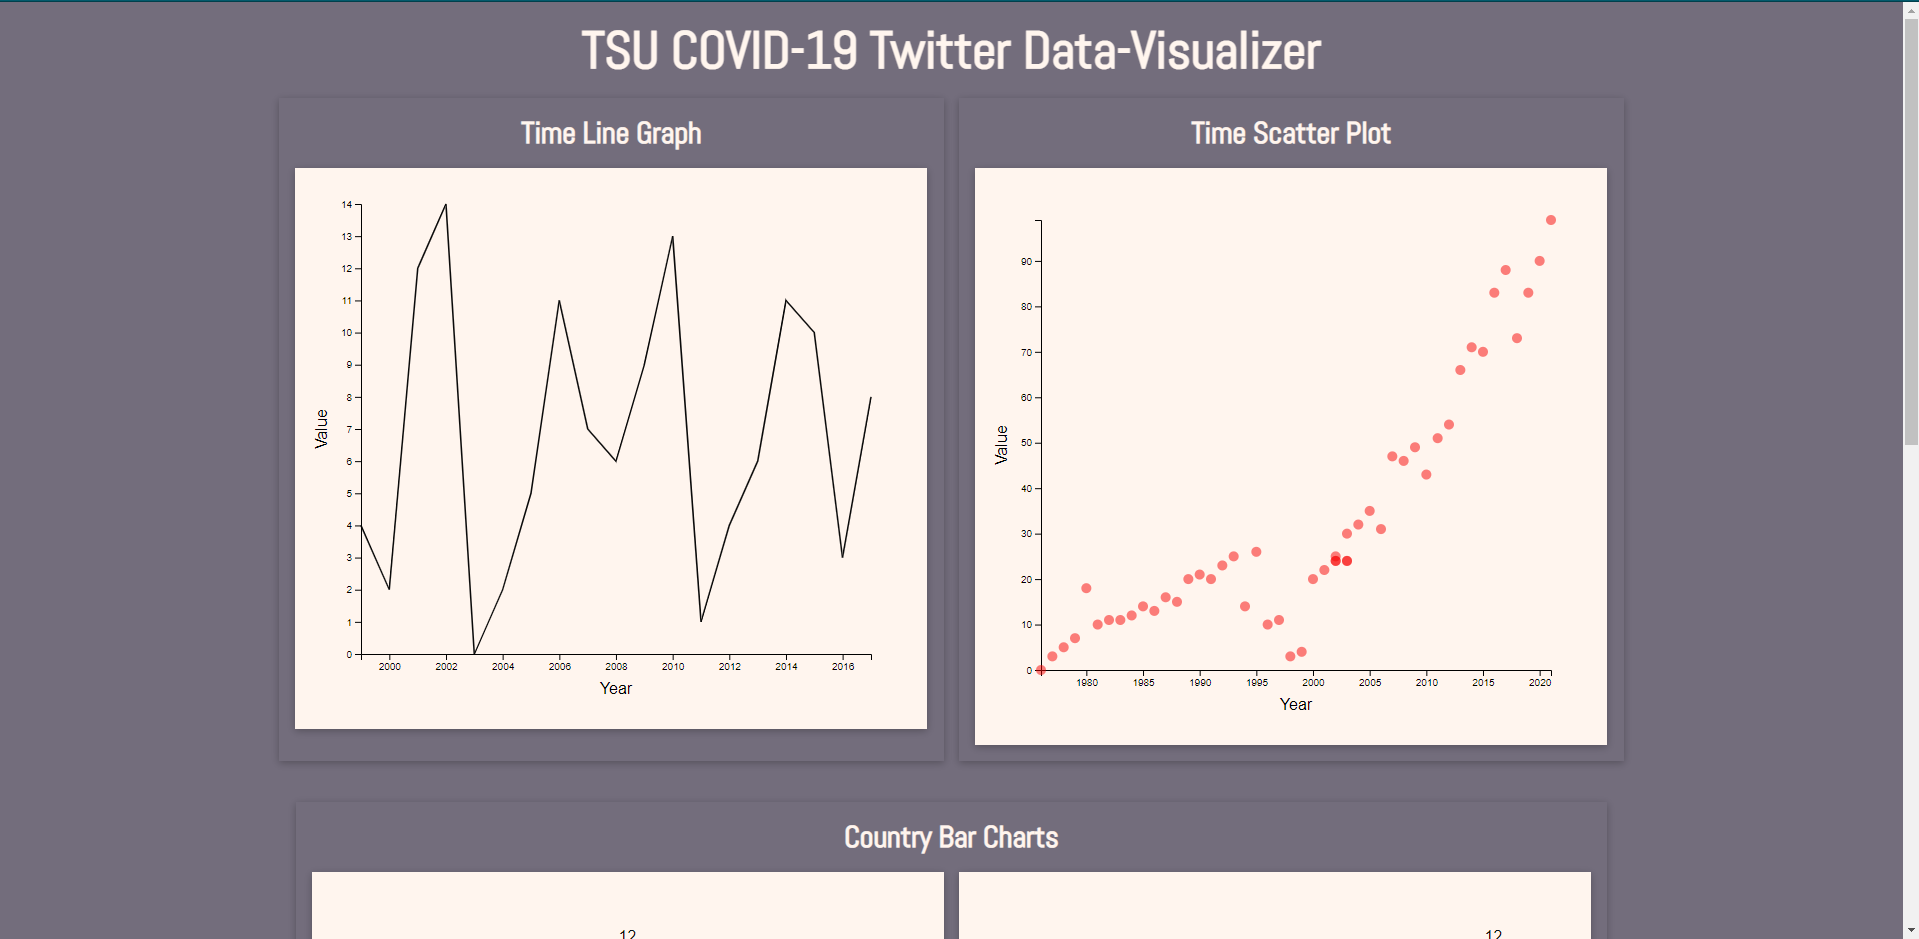
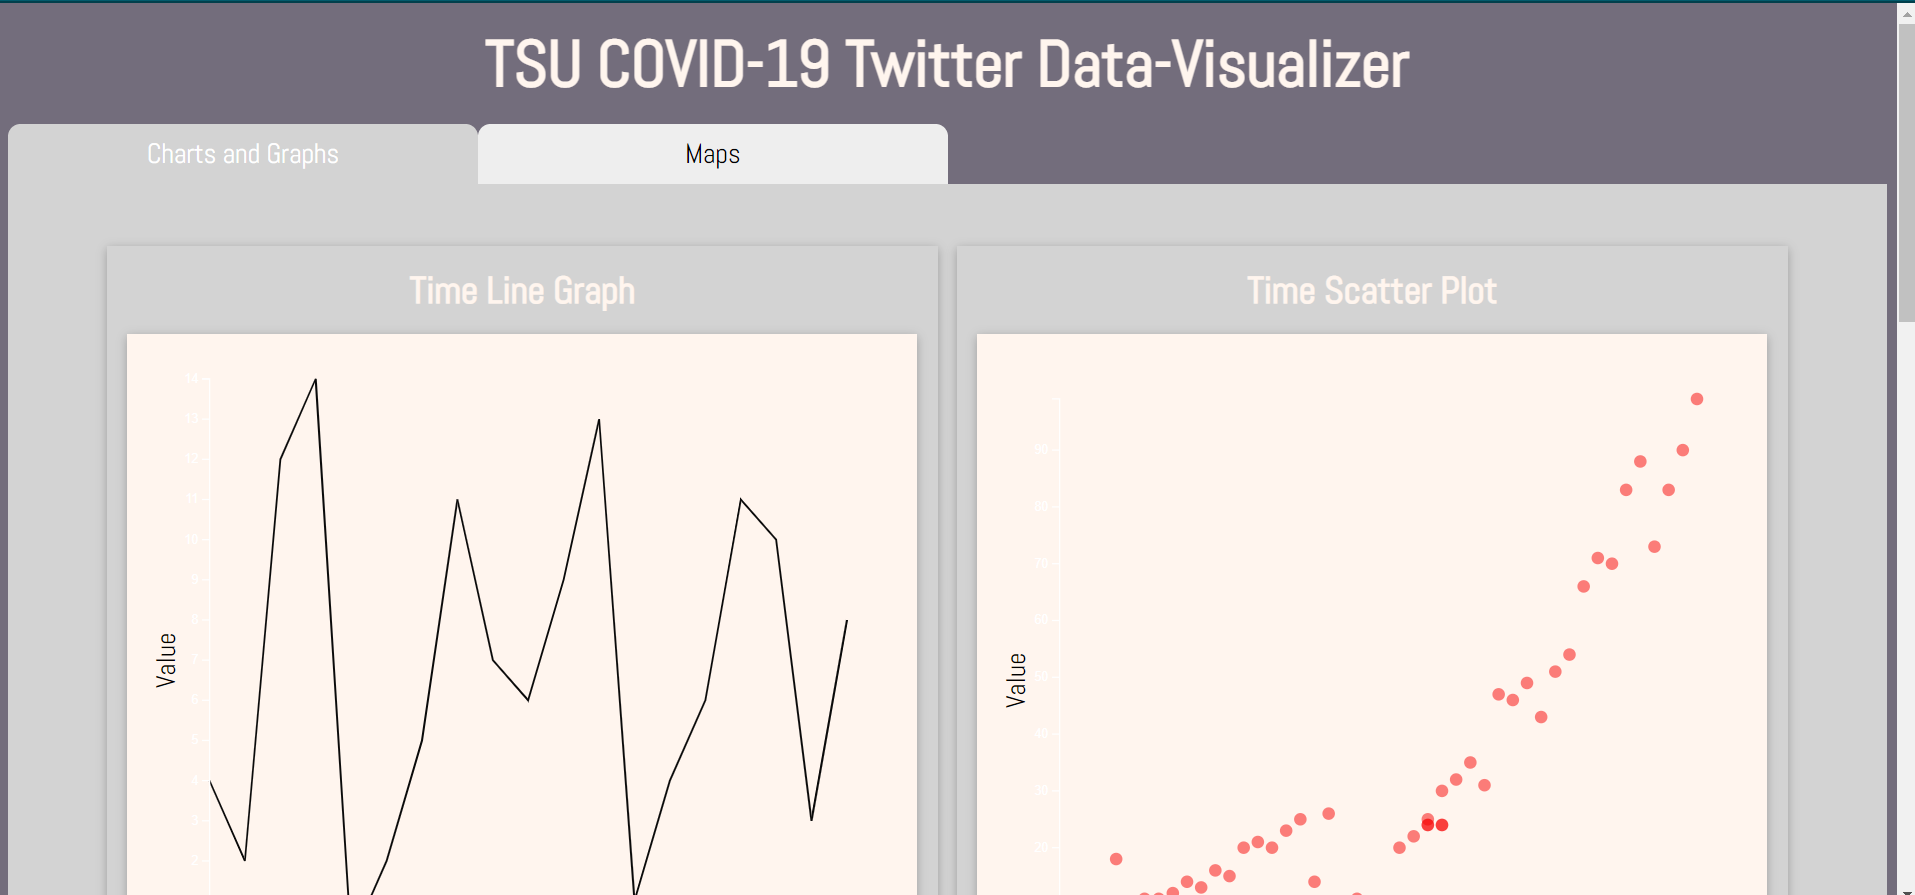
Updated screenshots

diff --git a/index.css b/index.css
@@ -13,7 +13,7 @@ body {
 
 .tabContainer .buttonContainer{
     height: 15%;
-    padding-bottom: 43px;
+    padding-bottom: 48px;
 }
 
 .tabContainer .buttonContainer button{
@@ -25,8 +25,10 @@ body {
     cursor: pointer;
     padding: 10px;
     font-family: 'Abel';;
-    font-size: 18px;
+    font-size: 22px;
     background-color: #eee;
+    border-top-right-radius: 10px;
+    border-top-left-radius: 10px;
 }
 
 .tabContainer .buttonContainer button:hover{
@@ -38,7 +40,7 @@ body {
     background-color: gray;
     color: white;
     text-align: center;
-    padding-top: 75px;
+    padding-top: 50px;
     box-sizing: border-box;
     font-family: 'Abel';
     font-size: 22px;
